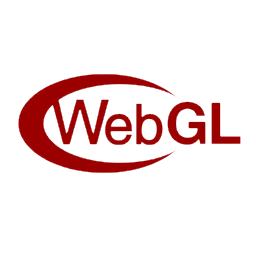
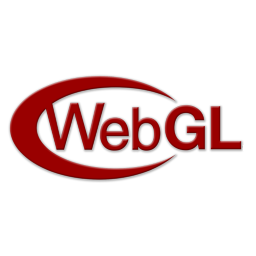
New texture.

Changed region(s): [[0.0312, 0.2812, 0.9688, 0.7188]]

diff --git a/public_html/experiments/planet-webgl2/planet-webgl2.html b/public_html/experiments/planet-webgl2/planet-webgl2.html
@@ -172,16 +172,15 @@
         vec3 shadowCoord = (vPositionFromLight.xyz / vPositionFromLight.w) / 2.0 + 0.5;
         vec4 rgbaDepth = texture2D(uShadowMap, shadowCoord.xy);
         float depth = unpackDepth(rgbaDepth);
-        float colorModifier = 1.0;
 
-        vec4 baseColor = texture2D(uTextureMap, vTexCoord * vec2(3.0, 1.5) - vec2(0.0, 0.25));
+        vec4 baseColor = texture2D(uTextureMap, vTexCoord * vec2(3.0, 1.5) - vec2(0.0, 0.25)).rrra;
+        baseColor.rgb *= 1.5;
 
-        if (baseColor.r > baseColor.g + baseColor.b) {
-          baseColor = vec4(baseColor.rrr * 1.4, 1.0);
-        } else {
-          colorModifier = throb(vModelPosition);
-          baseColor = colorModifier > 0.0 ? uColor1 : uColor2;
-          colorModifier = abs(colorModifier) * 1.8;
+        if (baseColor.a < 1.0) {
+          float colorModifier = throb(vModelPosition) * 1.8;
+          vec4 throbColor = colorModifier > 0.0 ? uColor1 : uColor2;
+          throbColor.rgb *= abs(colorModifier);
+          baseColor = vec4(mix(throbColor.rgb, baseColor.rgb, baseColor.a), 1.0);
         }
 
         vec3 normal = normalize(vNormal);
@@ -194,7 +193,7 @@
         vec3 specular = uLightColor * pow(max(dot(reflectionDirection, eyeDirection), 0.0), uShininess);
         float visibility = shadowCoord.z > depth + 0.02 ? 1.0 - nDotL : 1.0;
 
-        gl_FragColor = vec4(visibility * (ambient + diffuse + specular) * baseColor.rgb * colorModifier, baseColor.a);
+        gl_FragColor = vec4(visibility * (ambient + diffuse + specular) * baseColor.rgb, baseColor.a);
       }
     </script> 
     <script>
@@ -214,11 +213,6 @@
           function(callback){
             return window.setTimeout(callback, 1000 / 60);
           };
-
-        function getCanvasWidth() { return window.innerWidth; }
-        function getCanvasHeight() { return window.innerHeight; }
-        // function getCanvasWidth() { return 200; }
-        // function getCanvasHeight() { return 200; }
 
         var canvas = document.getElementById("webgl");
         canvas.width = getCanvasWidth();
@@ -568,6 +562,22 @@
         
           gl.viewport(0, 0, canvas.width, canvas.height);
           mat4.perspective(proj_matrix, Math.PI / 3, canvas.width / canvas.height, 1, 100);
+        };
+
+        function getCanvasWidth() {
+          if (window.location.hash === "#200") {
+            return 200;
+          } else {
+            return window.innerWidth; 
+          }   
+        }
+        
+        function getCanvasHeight() {
+          if (window.location.hash === "#200") {
+            return 200;
+          } else {
+            return window.innerHeight; 
+          }   
         }
 
       };
